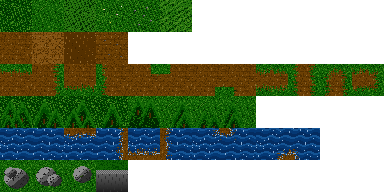
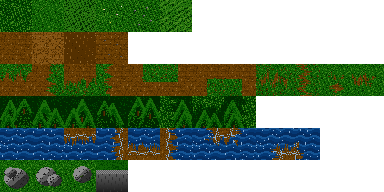
Improve Elwynn tile fringes and biome placement.
Deepen grass/dirt and shore transitions, densify readable forest
canopy tiles, place ponds and rocks nearer spawn, and ease camera
zoom so the summer tile set reads more clearly in play.

diff --git a/tools/gen_elwynn_tiles.py b/tools/gen_elwynn_tiles.py
@@ -150,21 +150,28 @@ def dirt_tile(variant: int) -> Image.Image:
     return img
 
 
+def fringe_depth(along: int, seed: int) -> int:
+    """Organic RTS-style fringe depth along an edge (pixels into the tile)."""
+    wave = int(3.5 * math.sin(along * 0.55 + seed * 0.2))
+    bump = (hash2(along, seed, 7) % 7) - 2
+    return max(8, min(18, 12 + wave + bump))
+
+
 def jagged_mask(side: str, x: int, y: int, seed: int) -> bool:
     """True where grass fringe should appear on a dirt/water transition tile."""
-    noise = (hash2(x, y, seed) % 5) - 2
+    speck = hash2(x, y, seed) % 11 == 0
     if side == "N":
-        depth = 6 + (hash2(x, 0, seed) % 5) + noise
-        return y < depth
+        depth = fringe_depth(x, seed)
+        return y < depth or (y == depth and speck)
     if side == "S":
-        depth = 6 + (hash2(x, 1, seed) % 5) + noise
-        return y >= TILE - depth
+        depth = fringe_depth(x, seed + 11)
+        return y >= TILE - depth or (y == TILE - depth - 1 and speck)
     if side == "W":
-        depth = 6 + (hash2(y, 2, seed) % 5) + noise
-        return x < depth
+        depth = fringe_depth(y, seed + 23)
+        return x < depth or (x == depth and speck)
     if side == "E":
-        depth = 6 + (hash2(y, 3, seed) % 5) + noise
-        return x >= TILE - depth
+        depth = fringe_depth(y, seed + 37)
+        return x >= TILE - depth or (x == TILE - depth - 1 and speck)
     return False
 
 
@@ -173,26 +180,29 @@ def blend_grass_on_dirt(sides: str, seed: int = 0) -> Image.Image:
     g = grass_tile(1)
     for y in range(TILE):
         for x in range(TILE):
-            on = False
-            for s in sides:
-                if jagged_mask(s, x, y, seed + ord(s)):
-                    on = True
-                    break
-            # Outer corner: require near both edges for cleaner NE/NW/etc.
             if len(sides) == 2 and sides in ("NE", "NW", "SE", "SW"):
                 a, b = sides[0], sides[1]
                 on = jagged_mask(a, x, y, seed + 1) and jagged_mask(b, x, y, seed + 2)
-                # Soften with OR near the corner tip.
+                # Grow the outer corner lobe so roads don't look square.
                 if sides == "NE":
-                    on = on or (x > 22 and y < 10)
+                    on = on or (x > 14 and y < 18 and (x + (TILE - y)) > 28)
                 elif sides == "NW":
-                    on = on or (x < 10 and y < 10)
+                    on = on or (x < 18 and y < 18 and ((TILE - x) + (TILE - y)) > 28)
                 elif sides == "SE":
-                    on = on or (x > 22 and y > 22)
+                    on = on or (x > 14 and y > 14 and (x + y) > 28)
                 elif sides == "SW":
-                    on = on or (x < 10 and y > 22)
+                    on = on or (x < 18 and y > 14 and ((TILE - x) + y) > 28)
+            elif sides == "NS":
+                on = jagged_mask("N", x, y, seed) or jagged_mask("S", x, y, seed)
+            elif sides == "EW":
+                on = jagged_mask("E", x, y, seed) or jagged_mask("W", x, y, seed)
+            else:
+                on = any(jagged_mask(s, x, y, seed + ord(s)) for s in sides)
             if on:
                 put(img, x, y, g.getpixel((x, y))[:3])
+                # Dark dirt flecks along the seam for WC2-like toothiness.
+                if hash2(x, y, seed + 99) % 13 == 0:
+                    put(img, x, y, D["dark"])
     return img
 
 
@@ -218,27 +228,18 @@ def shore_tile(sides: str, seed: int = 0) -> Image.Image:
     bank = dirt_tile(0)
     for y in range(TILE):
         for x in range(TILE):
-            on = False
-            for s in sides:
-                if jagged_mask(s, x, y, seed + 50 + ord(s)):
-                    on = True
-            if len(sides) == 2:
+            if len(sides) == 2 and sides in ("NE", "NW", "SE", "SW"):
                 a, b = sides[0], sides[1]
                 on = jagged_mask(a, x, y, seed + 51) and jagged_mask(b, x, y, seed + 52)
+            else:
+                on = any(jagged_mask(s, x, y, seed + 50 + ord(s)) for s in sides)
             if on:
-                # Muddy bank rim then dirt.
-                rim = False
-                for s in sides:
-                    # one pixel inside water side of fringe
-                    if s == "N" and y == 6 + (hash2(x, 0, seed) % 4):
-                        rim = True
-                    if s == "S" and y == TILE - (6 + (hash2(x, 1, seed) % 4)):
-                        rim = True
-                    if s == "W" and x == 6 + (hash2(y, 2, seed) % 4):
-                        rim = True
-                    if s == "E" and x == TILE - (6 + (hash2(y, 3, seed) % 4)):
-                        rim = True
-                put(img, x, y, W["foam"] if rim else bank.getpixel((x, y))[:3])
+                put(img, x, y, bank.getpixel((x, y))[:3])
+                # Foam lip one pixel toward water.
+                if hash2(x, y, seed + 70) % 5 == 0:
+                    put(img, x, y, W["foam"])
+                elif hash2(x, y, seed + 71) % 9 == 0:
+                    put(img, x, y, W["bank"])
     return img
 
 
@@ -265,33 +266,52 @@ def draw_pine(img: Image.Image, cx: int, cy: int, scale: int, seed: int) -> None
 
 
 def forest_tile(variant: int) -> Image.Image:
-    img = grass_tile(0 if variant < 4 else 1)
+    # Dark undergrowth base so canopy patches read as woods, not speckled grass.
+    img = new_tile(F["dark"])
+    for y in range(TILE):
+        for x in range(TILE):
+            h = hash2(x, y, 80 + variant)
+            if h % 4 == 0:
+                put(img, x, y, G["shadow"])
+            elif h % 7 == 0:
+                put(img, x, y, F["canopy"])
+    if variant >= 4:
+        # Edge variants keep a grass lip on the open side.
+        g = grass_tile(0)
+        open_side = {4: "S", 5: "W", 6: "N", 7: "E"}[variant]
+        for y in range(TILE):
+            for x in range(TILE):
+                if jagged_mask(open_side, x, y, 90 + variant):
+                    put(img, x, y, g.getpixel((x, y))[:3])
     if variant == 0:  # dense
-        draw_pine(img, 10, 12, 7, 1)
-        draw_pine(img, 22, 14, 8, 2)
-        draw_pine(img, 16, 22, 6, 3)
-        draw_pine(img, 8, 24, 5, 4)
+        draw_pine(img, 10, 12, 8, 1)
+        draw_pine(img, 22, 14, 9, 2)
+        draw_pine(img, 16, 22, 7, 3)
+        draw_pine(img, 8, 24, 6, 4)
+        draw_pine(img, 24, 8, 5, 19)
     elif variant == 1:
-        draw_pine(img, 12, 14, 9, 5)
-        draw_pine(img, 23, 20, 7, 6)
+        draw_pine(img, 12, 14, 10, 5)
+        draw_pine(img, 23, 20, 8, 6)
+        draw_pine(img, 8, 22, 6, 20)
     elif variant == 2:
-        draw_pine(img, 18, 12, 8, 7)
-        draw_pine(img, 9, 20, 7, 8)
-        draw_pine(img, 24, 24, 5, 9)
+        draw_pine(img, 18, 12, 9, 7)
+        draw_pine(img, 9, 20, 8, 8)
+        draw_pine(img, 24, 24, 6, 9)
     elif variant == 3:  # sparse
-        draw_pine(img, 16, 16, 8, 10)
-    elif variant == 4:  # edge N (open south)
-        draw_pine(img, 10, 8, 6, 11)
-        draw_pine(img, 22, 10, 7, 12)
-    elif variant == 5:  # edge E
-        draw_pine(img, 22, 12, 7, 13)
-        draw_pine(img, 24, 22, 6, 14)
-    elif variant == 6:  # edge S
-        draw_pine(img, 12, 22, 7, 15)
-        draw_pine(img, 22, 24, 6, 16)
-    else:  # edge W
-        draw_pine(img, 8, 12, 7, 17)
-        draw_pine(img, 10, 22, 6, 18)
+        draw_pine(img, 16, 16, 9, 10)
+        draw_pine(img, 8, 10, 5, 21)
+    elif variant == 4:  # edge open south
+        draw_pine(img, 10, 8, 7, 11)
+        draw_pine(img, 22, 10, 8, 12)
+    elif variant == 5:  # edge open west
+        draw_pine(img, 22, 12, 8, 13)
+        draw_pine(img, 24, 22, 7, 14)
+    elif variant == 6:  # edge open north
+        draw_pine(img, 12, 22, 8, 15)
+        draw_pine(img, 22, 24, 7, 16)
+    else:  # edge open east
+        draw_pine(img, 8, 12, 8, 17)
+        draw_pine(img, 10, 22, 7, 18)
     return img
 
 
